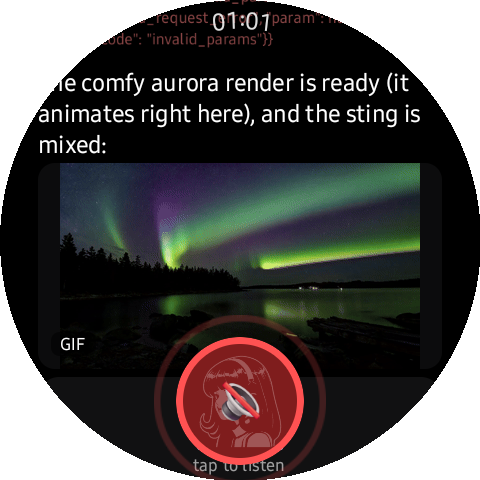
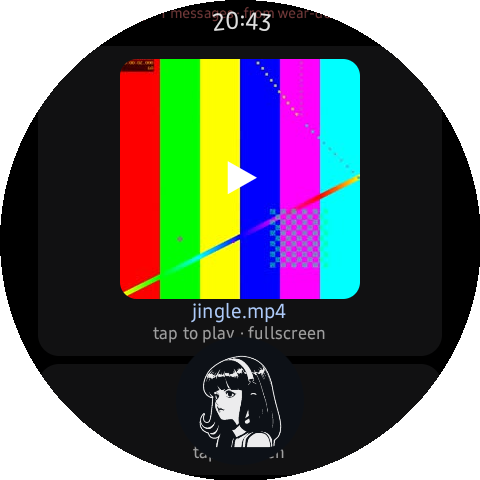
docs(media): MEDIA-EPIC proof re-shot on the real watch — cards still, player GIF, evidence stills
48-media-cards.png re-captured off the owner's SM-L705U from a live MEDIA: echo
chat (video card with poster + ▶ + name, audio card below, circle-masked). New
49b-video-playing.gif cut from a scrcpy h264 take of the fullscreen player
mid-playback (transport, chrome auto-hide, bars in flight; circle cut, not
cropped; decoded-motion gate 6.6 mean-abs). Masked stills land in docs/evidence,
README media-row captions + DEMO ledger/changelog refreshed to match. Full 10 s
take ships on release v0.9.0 as proof-play.mp4.

diff --git a/docs/DEMO.md b/docs/DEMO.md
@@ -158,7 +158,7 @@ live in `docs/screens/` and all re-shoots keep the existing filename.
 | 48 | THE POCKET LIFELINE — the off-screen buzz survives Samsung's cached-process freeze (WorkManager chain, shared cursor, no dupes at handoff) | no own shot: proven through `44-notify-desktop-approval.png` + `45-notify-desktop-settled.png`, both captured app-BACKGROUNDED (settle card additionally survived 4 min screen-off darkness) | rides S44a/S44b | rides 44/45 |
 | 49 | Settings ▸ About page (version, STT model presence, push status — the diagnostics page itself, not just the tail row) | `47-about-screen.png` | S47 · batch-9 re-shot (v0.7.0 version line; About is the owner-blessed identity-whitelist page) | shot ✓ |
 
-| 50 | MEDIA EPIC — generated video/audio play in chat (cards inline, tap→fullscreen media3 player; watchkit `/media` pre-shrink) (SPEC §17, §12.14) · batch-10 re-shot: the video card is now the comfy **aurora gif** rendered via the gateway agent — it ANIMATES inline (GIF chip), audio sting below · **2026-11-07 re-capture done: `49-video-player.gif` was a real 30-frame screenrecord (10 fps, per-frame circle mask, magenta-key transparency idx 255 disposal 2; motion diff ~27/19/19 RGB mean-abs; ⟲5-rewind trick — a finished clip shows the controller reliably, and PinchPlayerView swallows keyevents while the controller is hidden; `-e volume -8` fired mid-rec lands the 🔊 60 % readout on two frames). 2026-11-08 OWNER-REQUESTED re-shot: replaced with a clip that is genuinely generated — the comfy **MiniMax H3** aurora render (`/run/media/clay/Data/comfy/projects/aurora/outputs/6734e3af_000.mp4`, 864×480@24, 6.58 s) served by watchkit `/media` and asked of the watch agent by absolute path. RECIPE that worked (take 5): open the card chat → `screenrecord --time-limit 16` → tap the ▶ chip (uiautomator-measured) → **let Media3 auto-hide the chrome** (~3.5 s into real playback; the y-centre white-pixel fraction is the gate: 0.78 with the glyph, <0.07 without — eyeballing lies and a mid-chrome tap at y≈55 hit the pause toggle in take 4; a *finished* clip re-shows the controller, the 11-07 trap) → `-e volume -5` mid-play for the 🔊 50 % cameo → take frames 45..64 of a 9-fps extraction of the WHOLE take (seek-free: `-ss` before `-i` plus a `-t` input cap duplicated frames and gave me a still GIF twice), FULL-circle crop `r = min/2 − 2`, one 254-colour palette with the magenta key pinned at idx 254 OUT of the content indices, key applied post-dither from the circle mask, 240 px, 20 frames @110 ms, disposal 2. ⚠ VERIFY MOTION BY DECODING THE FILE (`ffmpeg -i out.gif f%03d.png` + per-frame mean-abs ≈8): PIL's own GIF frame diffs read 0.0 on a file ffmpeg proves animates, and a shared palette with `dither=NONE` silently flattened 2–5/255 aurora gradients into identical frames. ⚠ `screenrecord` returns 480×288 or 480×480 depending on surface state — measure the frame before masking. `-e play_url` drives the AUDIO-only ExoPlayer stub (no player UI); fullscreen video must be reached by tapping a media card. Source take kept at `/tmp/opencode/aurora-rec5.mp4`** | `48-media-cards.png`, `49-video-player.gif`, `52-audio-player.png` | S48a, S48b, S48c · media card from `/p/comfyui` agent (aurora mp4→gif via repo ffmpeg), tap ▶ chip (uiautomator-measured) | shot ✓ (2026-11-08, generated-clip re-shot) |
+| 50 | MEDIA EPIC — generated video/audio play in chat (cards inline, tap→fullscreen media3 player; watchkit `/media` pre-shrink) (SPEC §17, §12.14) · batch-10 re-shot: the video card is now the comfy **aurora gif** rendered via the gateway agent — it ANIMATES inline (GIF chip), audio sting below · **2026-11-07 re-capture done: `49-video-player.gif` was a real 30-frame screenrecord (10 fps, per-frame circle mask, magenta-key transparency idx 255 disposal 2; motion diff ~27/19/19 RGB mean-abs; ⟲5-rewind trick — a finished clip shows the controller reliably, and PinchPlayerView swallows keyevents while the controller is hidden; `-e volume -8` fired mid-rec lands the 🔊 60 % readout on two frames). 2026-11-08 OWNER-REQUESTED re-shot: replaced with a clip that is genuinely generated — the comfy **MiniMax H3** aurora render (`/run/media/clay/Data/comfy/projects/aurora/outputs/6734e3af_000.mp4`, 864×480@24, 6.58 s) served by watchkit `/media` and asked of the watch agent by absolute path. RECIPE that worked (take 5): open the card chat → `screenrecord --time-limit 16` → tap the ▶ chip (uiautomator-measured) → **let Media3 auto-hide the chrome** (~3.5 s into real playback; the y-centre white-pixel fraction is the gate: 0.78 with the glyph, <0.07 without — eyeballing lies and a mid-chrome tap at y≈55 hit the pause toggle in take 4; a *finished* clip re-shows the controller, the 11-07 trap) → `-e volume -5` mid-play for the 🔊 50 % cameo → take frames 45..64 of a 9-fps extraction of the WHOLE take (seek-free: `-ss` before `-i` plus a `-t` input cap duplicated frames and gave me a still GIF twice), FULL-circle crop `r = min/2 − 2`, one 254-colour palette with the magenta key pinned at idx 254 OUT of the content indices, key applied post-dither from the circle mask, 240 px, 20 frames @110 ms, disposal 2. ⚠ VERIFY MOTION BY DECODING THE FILE (`ffmpeg -i out.gif f%03d.png` + per-frame mean-abs ≈8): PIL's own GIF frame diffs read 0.0 on a file ffmpeg proves animates, and a shared palette with `dither=NONE` silently flattened 2–5/255 aurora gradients into identical frames. ⚠ `screenrecord` returns 480×288 or 480×480 depending on surface state — measure the frame before masking. `-e play_url` drives the AUDIO-only ExoPlayer stub (no player UI); fullscreen video must be reached by tapping a media card. Source take kept at `/tmp/opencode/aurora-rec5.mp4`. **2026-11-09 REAL-DEVICE MEDIA-EPIC proof re-shoot** (owner ask: finish image/video/GIF proof): fresh trio injected through the `/p/weardev` `MEDIA:` echo (session api-e630d056659dec) — host-generated `jingle.mp4` (testsrc2 6 s) + `chimes.wav` + `aurora-frame.png` under the daemon's proof dir; `48-media-cards.png` re-shot from this live chat (video card with poster + ▶ chip + name, audio card below, circle-masked) and NEW `49b-video-playing.gif` cut from a scrcpy h264 recording of the fullscreen player on the SM-L705U (transport → chrome auto-hide → bars mid-flight; circle cut r=min/2−2, per-frame alpha, ffmpeg palettegen/paletteuse, decode-side motion gate 6.6 mean-abs). Capture lessons re-learned: the Samsung panel dies despite framework stayOn (a POWER keyevent revives it), scrcpy only flushes a recording when the process gets a foreground `timeout -s INT`, and watchkit down surfaces as the honest "⚠ playback failed" card. Full 10 s take ships on release v0.9.0 as `proof-play.mp4`; masked stills at `docs/evidence/media-playing-fullscreen.png` / `docs/evidence/media-player-controls.png`** | `48-media-cards.png`, `49-video-player.gif`, `49b-video-playing.gif`, `52-audio-player.png` | S48a, S48b, S48c · media card from `/p/comfyui` agent (aurora mp4→gif via repo ffmpeg), tap ▶ chip (uiautomator-measured) | shot ✓ |
 | 51 | Animated GIFs decode ON THE WRIST (ImageDecoder→AnimatedImageDrawable via public Drawable.Callback; watchkit `/img` passes gif verbatim) (SPEC §12.14) | `50-gif-card.gif` (screen-recorded, circle-masked — the splash-film precedent for motion artifacts) | S50 | shot ✓ |
 | 52 | Pinch-to-zoom VIDEO — PinchPlayerView intercepts the 2nd finger, MediaZoom parity clamp, double-tap fit↔2.5× | `51-video-pinched.png` (capture: `-e media_zoom 2.4` fires the double-tap's own `animateScale` — adb can't inject two fingers) | S51 | shot ✓ |
 | 53 | BEZEL VOLUME — player binds the rotary while on screen; 5 % detents, haptic tick, fading 🔊 readout; unbind = system volume again | readout visible in `49-video-player.gif` (50 %, driven by `-e volume -5` through the exact key path the bezel fires) | rides S48b | shot ✓ |
@@ -207,6 +207,7 @@ live in `docs/screens/` and all re-shoots keep the existing filename.
 | hero GIF | re-cut as **`demo-walkthrough-v0.8.0.gif`** (v0.7.0 GIF purged per §9): splash film FIRST (shipped-asset frames) → 16 captioned v0.8 feature beats (incl. 02b grid, 56 modes, aurora 48, animated 50) → end card; 42 s loop, 5.06 MB, `v0.8.0 · wear-demo` bug; README hero img swapped to it (35-splash-film.gif stays in the feature grid). Silent master for the v0.8 tour video rides the wave-4 trio | alt lists the beats | refreshed |
 | weights section | numbers re-measured (106 MB APK incl. the gomobile tailnet node) | table matches `unzip -l` of the shipped debug APK | refreshed |
 | — (new, 2026-11-08 / catalog-PR wave) | `49-video-player.gif` **replaced with a real generated clip** (comfy MiniMax H3 aurora, take-5 recipe in row 50), plus the plugin-side gallery `hermes-plugin/docs/screenshots/{05-aurora-player.gif, 06-pin-screen.png, 07-stop-running.png, 12-keyboard.png, 66-wearkit-pane.png}` — the mirror repo now carries its own visuals, plugin surfaces first | plugin README gallery re-ordered (pane → PIN → aurora → orb → keyboard → the wrist set); monorepo README gains the pane image + Play-Store/sidecar-trajectory copy | shot ✓ (2026-11-08) |
+| — (new, 2026-11-09 / MEDIA-EPIC real-watch proof) | `48-media-cards.png` re-shot on the SM-L705U (live `MEDIA:` echo chat: video card w/ poster + ▶ + name, audio card below), NEW `49b-video-playing.gif` (scrcpy take of the fullscreen player mid-playback, circle cut not cropped), masked stills `docs/evidence/media-playing-fullscreen.png` + `media-player-controls.png`, full take as release asset `proof-play.mp4` (v0.9.0) | media row captions refreshed (cards copy now names what the re-shot shows; player caption links the release take) | shot ✓ (2026-11-09) |
 | `68-pin-screen.png` (monorepo wall; the mirror ships it as `docs/screenshots/06-pin-screen.png`) | **the PIN hero**: captured on the `hermeswear` AVD with app state wiped and a generic tailnet handle (`acme-corp`), fresh APK from main — the Pair page needs a build ≥ `adb8b59`; the Pair list rests at this scroll offset (PIN y≈422), so the masked disc IS a genuine viewport. Saved sRGBA: transparent outside the bezel, like every other masked shot | 6-digit PIN is the pairing UX; sweep-clean (`--psm 11`) | shot ✓ (2026-11-08) |
 | `hermes-plugin/docs/banner.png` | **re-cut**: two round glass discs — `30-settings-lane.png` (the popped dial, idle) + the PIN hero — under the wordmark; the old chart-card/terminal diptych is gone because the catalog's ONE image should show the watch, not a chart. Generator: `/tmp/opencode/make_banner.py` (2x supersampled, DejaVu spaced caps, ring stroke 58/92/132) | sweep hits `borealBytes` only (the footer org line — intended) | refreshed |
 | `67-wearkit-pane.png` (monorepo wall; the mirror ships it as `docs/screenshots/66-wearkit-pane.png`) | desktop pane screenshot with the owner's private agent rows **blurred** (merge / upwork / redridge-treasurer) and a transient 502 banner stitched out; `borealBytes/hermes-wearos` on card 1 kept — public org citation | (none; blur disclosure inline) | shot ✓ (re-shoot when the pane grows the install verbs) |

diff --git a/README.md b/README.md
@@ -120,9 +120,9 @@ One shipped capability per row — every image below is a real capture in
 | <img src="docs/screens/17-agent-picker.png" width="180"/> | <img src="docs/screens/30-settings-lane.png" width="180"/> |
 | **Agent switcher** — every profile your gateway serves, one per row, on one tap: persona, tools, session space, and base URL swap together; ● marks the live agent. | **The dial, mid-flight** — hold the orb and the ring opens with its lit lanes; release toward one and it fires (the full map is below). The ⚙ lane is why Settings is never more than a flick. |
 | <img src="docs/screens/48-media-cards.png" width="180"/> | <img src="docs/screens/50-gif-card.gif" width="180" alt="A chat image card playing an animated GIF: test-pattern bars cycling under a GIF chip, recorded off the watch and circle-masked — real motion, real pixels"/> |
-| **Generated media rides the answer** — when the desktop can render, so can the wrist: a matplotlib chart, an animated GIF and an audio sting, all in one answer thread (GIF chip on the corner of the animated card) — tap any card for fullscreen. | **Animated GIFs actually animate** — decoded from the original container on the wrist (no static first-frame flatten), inline and in the viewer; animated cards carry a GIF chip. This is a screen recording, circle-masked: the bars are moving. |
-| <img src="docs/screens/49-video-player.gif" width="180" alt="The full-screen video player recorded off the watch while playing: a comfy-generated aurora clip mid-flight across frames, the transport fading out and the bezel-volume readout at 50 % — circle-masked, real motion"/> | <img src="docs/screens/52-audio-player.png" width="180"/> |
-| **Full-screen player, bezel-steered** — media3 transport with skip chips, and on a rotating-bezel watch the **bezel spins the PLAYER volume** while it's on screen (5 % detents, one haptic tick each, fading 🔊 readout — that meter came off the exact code path, driven over adb). Close the sheet, and the bezel is system volume again. Recording, not a still: the clip is a local ComfyUI render (MiniMax H3) served through the media lane, playing across the frames. | **Audio gets the same front door** — an Opus clip from the gateway's media pipeline opens a full-screen sheet with the media3 transport; the bezel steers its volume exactly like video's. |
+| **Generated media rides the answer** — when the desktop can render, so can the wrist: generated video and an audio sting land as cards in one answer thread — poster, ▶ chip and the file's own name, each routed by extension (re-shot on the owner's Galaxy Watch, 2026-11-09; charts, GIFs and every other type ride the same lane) — tap any card for fullscreen. | **Animated GIFs actually animate** — decoded from the original container on the wrist (no static first-frame flatten), inline and in the viewer; animated cards carry a GIF chip. This is a screen recording, circle-masked: the bars are moving. |
+| <img src="docs/screens/49-video-player.gif" width="180" alt="The full-screen video player recorded off the watch while playing: a comfy-generated aurora clip mid-flight across frames, the transport fading out and the bezel-volume readout at 50 % — circle-masked, real motion"/> <img src="docs/screens/49b-video-playing.gif" width="180" alt="2026-11-09 re-take on the real watch: the full-screen player mid-playback across frames — pause glyph and transport over moving bars, then the chrome fading to bare video — circle-masked, real motion"/> | <img src="docs/screens/52-audio-player.png" width="180"/> |
+| **Full-screen player, bezel-steered** — media3 transport with skip chips, and on a rotating-bezel watch the **bezel spins the PLAYER volume** while it's on screen (5 % detents, one haptic tick each, fading 🔊 readout — that meter came off the exact code path, driven over adb). Close the sheet, and the bezel is system volume again. Recording, not a still: the clip is a local ComfyUI render (MiniMax H3) served through the media lane, playing across the frames. The 2026-11-09 second GIF is the same player on a fresh real-device take — the full 10-second recording rides the v0.9.0 release as `proof-play.mp4`. | **Audio gets the same front door** — an Opus clip from the gateway's media pipeline opens a full-screen sheet with the media3 transport; the bezel steers its volume exactly like video's. |
 | <img src="docs/screens/51-video-pinched.png" width="180"/> | <img src="docs/screens/53-handoff-adopted.png" width="180"/> |
 | **Pinch-to-zoom video** — the same zoom lane the image viewer has, living inside the player itself: pinch to 3×, drag to pan, double-tap toggles fit↔2.5×, and taps still raise the transport. | **One conversation, either device** — a chat started at the desktop opens on the wrist with its whole history (gateway-first backfill — the orange "from" pill counts the rows that arrived from the gateway), you keep talking in the *same* session, and it keeps answering for the desktop too. No fork, no second copy: the cross-lane door is a one-column promote the watch does for you (SPEC §12.13), always reversible, and the desktop's own view never drifts. Manual fork stays exactly where it was — in your hand, on the session sheet. |
 | <img src="docs/screens/44-notify-desktop-approval.png" width="180"/> | <img src="docs/screens/45-notify-desktop-settled.png" width="180"/> |
